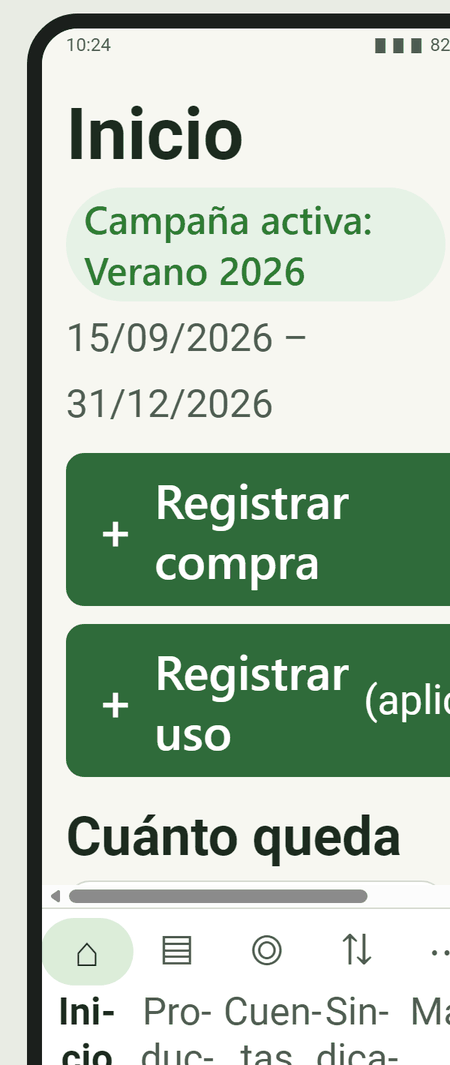
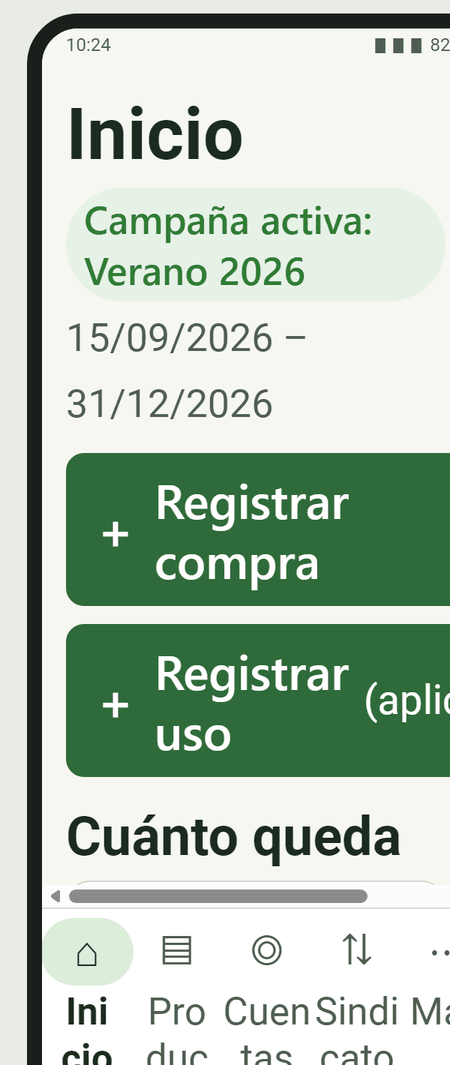
docs(ux): prototipo sin roce de «Cuentas» a 320 dp ×2,0 (cortes de ancho cero por sílaba); medición nueva y antecedente

diff --git a/docs/ux/prototipo/index.html b/docs/ux/prototipo/index.html
@@ -51,9 +51,11 @@ button{font:inherit;color:inherit}
 .tabs button[aria-current=page] .ic{background:var(--primario-suave)}
 /* Letra grande (ajuste del 2026-10-30): las cinco etiquetas siguen visibles y con
    su tamaño; la barra crece en altura y la etiqueta se parte por sílaba (guiones
-   blandos en el texto visible, nunca por carácter) sólo si no cabe en una línea.
+   de ancho cero por sílaba en el texto visible, nunca por carácter) sólo si no cabe en una línea.
    El nombre completo va en aria-label del botón; el texto visible va aria-hidden. */
-.tabs button{align-items:center;align-self:stretch;flex:1 1 0;padding-left:1px;padding-right:1px}
+/* Cinco huecos iguales sin relleno lateral: a 320 dp ×2,0 «Cuen-» en negrita necesita los
+   64 px enteros de su hueco. Nada se encoge ni se oculta. */
+.tabs button{align-items:center;align-self:stretch;flex:1 1 0;min-width:0;padding-left:0;padding-right:0}
 .tabs span.lbl{overflow-wrap:normal;hyphens:manual;word-break:keep-all;text-align:center;line-height:1.2;max-width:100%}
 h2.t{font-size:1.5em;line-height:1.25;margin:4px 0 4px;font-weight:700}
 .sub{color:var(--texto-2);margin:0 0 12px;line-height:1.4}
@@ -162,8 +164,10 @@ const $ = (s,r=document)=>r.querySelector(s);
 const esc = s => String(s).replace(/[&<>"]/g,c=>({"&":"&amp;","<":"&lt;",">":"&gt;",'"':"&quot;"}[c]));
 const chip = (t,c)=>`<span class="chip ${c}">${esc(t)}</span>`;
 
-// [clave, icono, nombre completo (accesible), texto visible con guiones blandos por sílaba]
-const TABS = [["inicio","⌂","Inicio","Inicio"],["productos","▤","Productos","Productos"],["cuentas","◎","Cuentas","Cuentas"],["sindicato","⇅","Sindicato","Sindicato"],["mas","⋯","Más","Más"]];
+// [clave, icono, nombre completo (accesible), texto visible con puntos de corte por sílaba]
+// Los cortes son espacios de ancho cero (): el texto se parte por sílaba sin dibujar guion,
+// igual que lo hará Flutter (su motor no dibuja guiones en los cortes blandos).
+const TABS = [["inicio","⌂","Inicio","Inicio"],["productos","▤","Productos","Productos"],["cuentas","◎","Cuentas","Cuentas"],["sindicato","⇅","Sindicato","Sindicato"],["mas","⋯","Más","Más"]];
 
 function go(screen, tab){ st.screen=screen; if(tab) st.tab=tab; st.dlg=null; render(); }
 

diff --git a/docs/ux/capturas_prototipo/README.md b/docs/ux/capturas_prototipo/README.md
@@ -1,6 +1,38 @@
 # Capturas del prototipo: barra de pestañas con letra grande (2026-10-30)
 
-Renderizado de `docs/ux/prototipo/index.html` en Edge sin interfaz (fuente real del navegador, Roboto/Segoe según el sistema), pantallas Inicio y Cuentas, a 320/360/412 dp y letra ×1,0/×1,3/×2,0. Medidas tomadas por script en el DOM (`getBoundingClientRect`, `scrollWidth`, `elementFromPoint`). No es la app Flutter: la verificación en la app queda en N1.
+Renderizado de `docs/ux/prototipo/index.html` en Edge sin interfaz (fuente real del navegador), pantallas Inicio y Cuentas, a 320/360/412 dp y letra ×1,0/×1,3/×2,0. Medidas tomadas por script en el DOM (`getBoundingClientRect`, `scrollWidth`, `elementFromPoint`). No es la app Flutter: la verificación en la app es parte de N1.
+
+## Medición vigente (segunda pasada, misma fecha)
+
+Cambio respecto a la primera pasada: los cortes por sílaba del texto visible son espacios de ancho cero (``) en vez de guiones blandos, así el corte no dibuja guion (igual que Flutter) y «Cuen / tas» cabe en su hueco; cinco huecos iguales sin relleno lateral.
+
+| Captura | Barra (px de 760) | Contenido (px) | Líneas por pestaña (Inicio · Productos · Cuentas · Sindicato · Más) | Desborde medido | Pestañas pulsables |
+|---|---|---|---|---|---|
+| `proto_inicio_320_x1.png` | 55 | 661 | 1 · 1 · 1 · 1 · 1 | ninguno | sí |
+| `proto_inicio_320_x13.png` | 86 | 630 | 1 · 2 · 2 · 2 · 1 | ninguno | sí |
+| `proto_inicio_320_x2.png` | 154 | 562 | 2 · 3 · 2 · 2 · 1 | ninguno | sí |
+| `proto_inicio_360_x1.png` | 55 | 661 | 1 · 1 · 1 · 1 · 1 | ninguno | sí |
+| `proto_inicio_360_x13.png` | 86 | 630 | 1 · 2 · 1 · 2 · 1 | ninguno | sí |
+| `proto_inicio_360_x2.png` | 154 | 562 | 1 · 3 · 2 · 2 · 1 | ninguno | sí |
+| `proto_inicio_412_x1.png` | 55 | 661 | 1 · 1 · 1 · 1 · 1 | ninguno | sí |
+| `proto_inicio_412_x13.png` | 66 | 650 | 1 · 1 · 1 · 1 · 1 | ninguno | sí |
+| `proto_inicio_412_x2.png` | 123 | 593 | 1 · 2 · 2 · 2 · 1 | ninguno | sí |
+| `proto_cuentas_320_x1.png` | 55 | 661 | 1 · 1 · 1 · 1 · 1 | ninguno | sí |
+| `proto_cuentas_320_x13.png` | 86 | 630 | 1 · 2 · 2 · 2 · 1 | ninguno | sí |
+| `proto_cuentas_320_x2.png` | 154 | 562 | 2 · 3 · 2 · 2 · 1 | ninguno | sí |
+| `proto_cuentas_360_x1.png` | 55 | 661 | 1 · 1 · 1 · 1 · 1 | ninguno | sí |
+| `proto_cuentas_360_x13.png` | 86 | 630 | 1 · 2 · 1 · 2 · 1 | ninguno | sí |
+| `proto_cuentas_360_x2.png` | 154 | 562 | 1 · 3 · 2 · 2 · 1 | ninguno | sí |
+| `proto_cuentas_412_x1.png` | 55 | 661 | 1 · 1 · 1 · 1 · 1 | ninguno | sí |
+| `proto_cuentas_412_x13.png` | 66 | 650 | 1 · 1 · 1 · 1 · 1 | ninguno | sí |
+| `proto_cuentas_412_x2.png` | 123 | 593 | 1 · 2 · 2 · 2 · 1 | ninguno | sí |
+
+- Las cinco etiquetas siguen visibles y con su tamaño en todas las combinaciones; el nombre completo va en `aria-label` del botón y el texto visible (con puntos de corte por sílaba) va `aria-hidden`.
+- Ningún desborde medido en ninguna combinación. A ×2,0 la barra ocupa 154 px de 760 (20 %) y el contenido conserva 562 px; los botones del contenido y las pestañas responden al toque en su centro.
+
+## Antecedente: primera pasada (commit `bc79aca`, misma fecha)
+
+Con guiones blandos (``, que dibujan guion al cortar) y 1 px de relleno lateral:
 
 | Captura | Barra (px de 760) | Contenido (px) | Líneas por pestaña (Inicio · Productos · Cuentas · Sindicato · Más) | Desborde medido | Pestañas pulsables |
 |---|---|---|---|---|---|
@@ -23,6 +55,4 @@ Renderizado de `docs/ux/prototipo/index.html` en Edge sin interfaz (fuente real 
 | `proto_cuentas_412_x13.png` | 66 | 650 | 1 · 1 · 1 · 1 · 1 | ninguno | sí |
 | `proto_cuentas_412_x2.png` | 154 | 562 | 1 · 3 · 2 · 2 · 1 | ninguno | sí |
 
-- Las cinco etiquetas siguen visibles y con su tamaño en todas las combinaciones; el nombre completo va en `aria-label` del botón y el texto visible (con guiones blandos por sílaba) va `aria-hidden`.
-- A ×2,0 la barra ocupa 154 px de 760 (20 %) y el contenido conserva 562 px; los botones del contenido y las pestañas responden al toque en su centro.
-- **Límite medido:** a 320 dp ×2,0 (y en Cuentas a 360 dp ×2,0) «Cuen-» en negrita ocupa 1–2 px más que su hueco y roza la etiqueta vecina; no se recorta ni se reduce. Es el caso extremo; se valora en N1 con la fuente de Android.
+- Límite que motivó la segunda pasada: a 320 dp ×2,0 (y en Cuentas a 360 dp ×2,0) «Cuen-» en negrita ocupaba 1–2 px más que su hueco y rozaba la etiqueta vecina.
